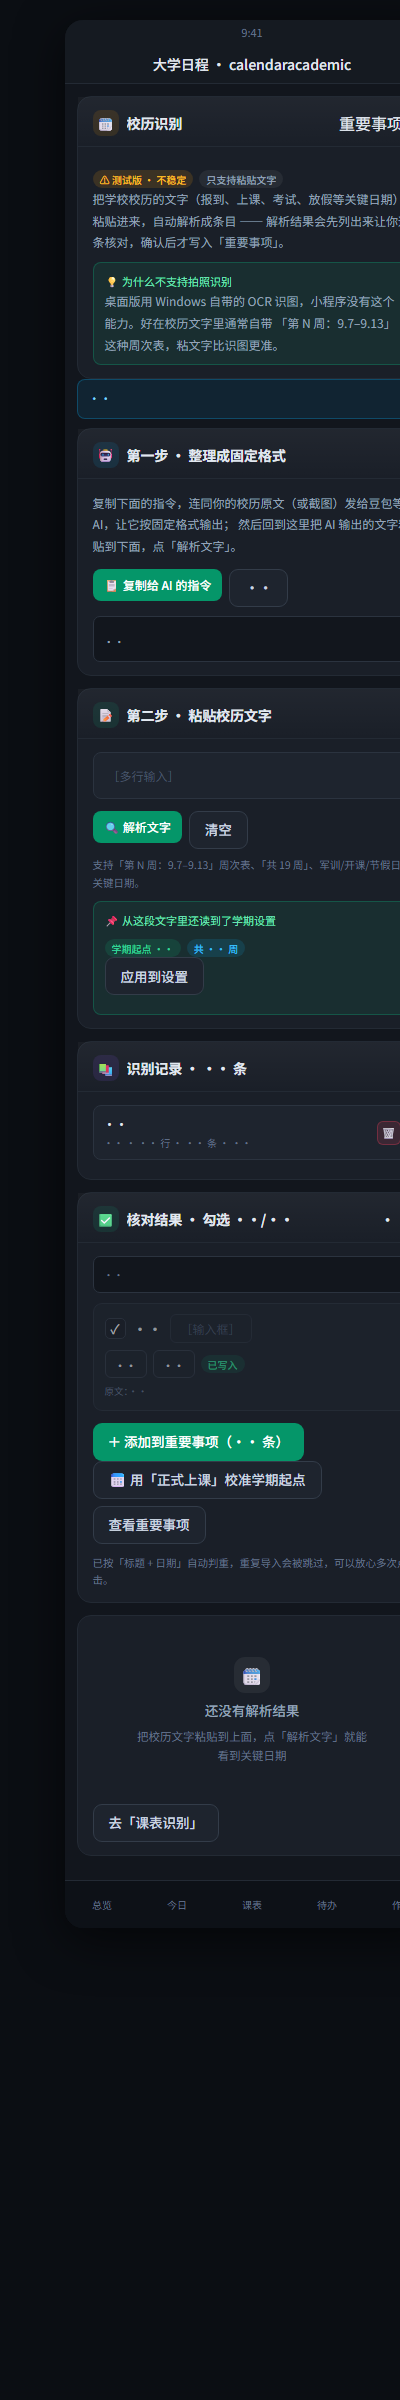
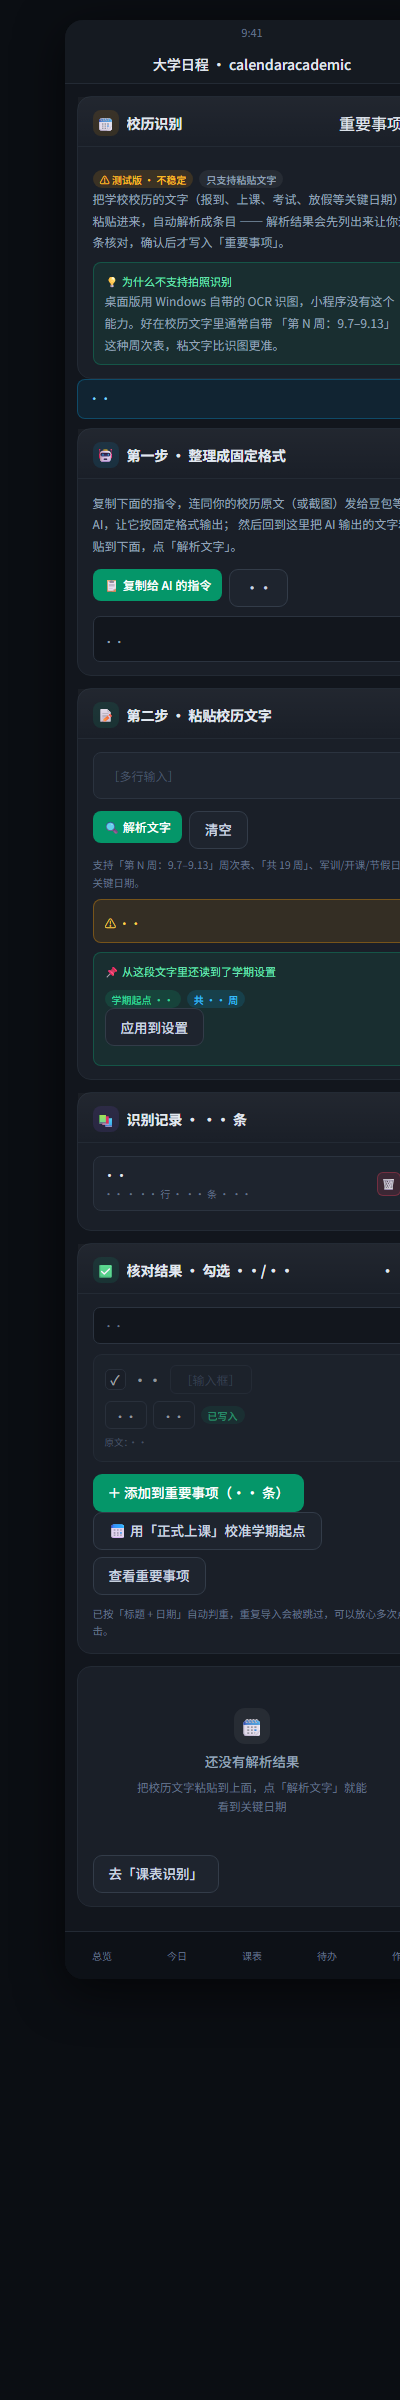
fix(miniprogram): 解析警告文字加换行兜底
警告文案里会带上出错的整行原文（例如「1-2节 高等数学 A101 1-16周」），
在窄屏上可能把卡片撑破。给 .notice-text / .warn-text 补上
word-break: break-all 与 overflow-wrap: anywhere，
并把 .warn-text 显式设为 block（text 是内联元素，换行行为不稳定）。

验证：自测 49/49，编译 0 错误（260.1 KB），无未定义 CSS 类，0 BOM。

diff --git a/miniprogram-preview/coursescan.html b/miniprogram-preview/coursescan.html
@@ -717,6 +717,10 @@ page {
 .notice-err  { background: rgba(244, 63, 94, 0.12);  border-color: rgba(244, 63, 94, 0.35);  color: #fda4af; }
 .notice-info { background: rgba(14, 165, 233, 0.12); border-color: rgba(14, 165, 233, 0.35); color: #7dd3fc; }
 
+/* 解析警告可能有多条，叠在一起时留出间距（小程序不支持 :last-child，
+   所以统一用 margin-top，靠父级 .stack 的 gap 处理首条） */
+.parse-warn { margin-top: 6px; }
+
 /* ── 说明块 ───────────────────────────────────── */
 .hint-box {
   font-size: 11.5px;
@@ -950,6 +954,11 @@ page {
       <div class="week-detect">
         <span class="week-detect-text">文字里标了「第 ·· 周」</span>
         <div class="btn-ghost btn-xs">把当前周设为第 ·· 周</div>
+      </div>
+
+      
+      <div class="notice notice-err parse-warn">
+        <span class="notice-text">⚠ ··</span>
       </div>
 
       

diff --git a/miniprogram-preview/calendaracademic.html b/miniprogram-preview/calendaracademic.html
@@ -734,6 +734,21 @@ page {
   word-break: break-all;
 }
 
+/* ── 解析警告 ─────────────────────────────────── */
+.warn-item {
+  margin-top: 7px;
+  border-radius: 8px;
+  padding: 9px 11px;
+  background: rgba(245, 158, 11, 0.12);
+  border: 1px solid rgba(245, 158, 11, 0.35);
+}
+
+.warn-text {
+  font-size: 11.5px;
+  line-height: 1.65;
+  color: #fcd34d;
+}
+
 /* ── 输入区 ───────────────────────────────────── */
 .textarea {
   width: 100%;
@@ -937,6 +952,11 @@ page {
       </div>
       <div class="tiny-note">
         支持「第 N 周：9.7–9.13」周次表、「共 19 周」、军训/开课/节假日等关键日期。
+      </div>
+
+      
+      <div class="warn-item">
+        <span class="warn-text">⚠ ··</span>
       </div>
 
       
